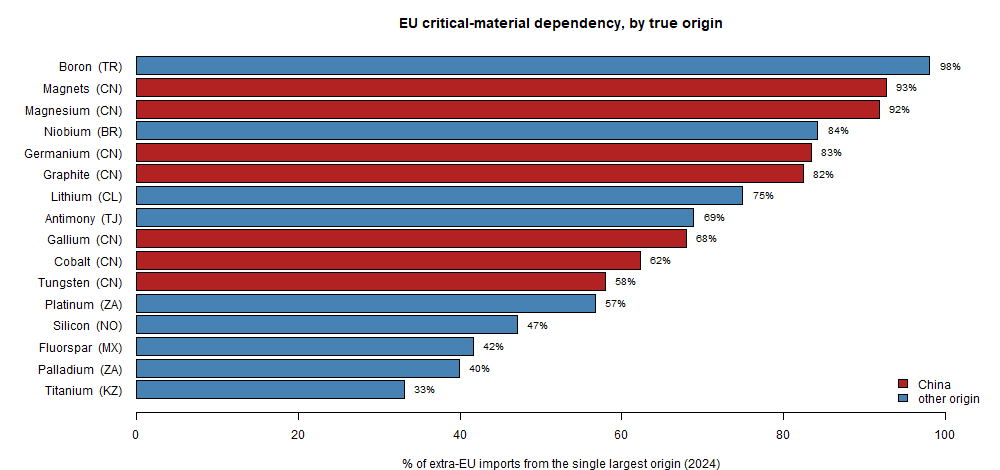
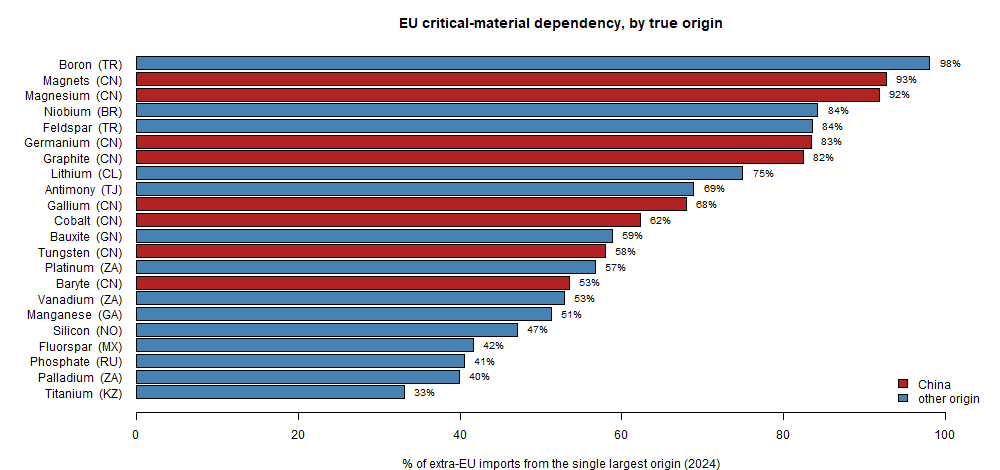
Widen atlas to 22: add feldspar, vanadium, manganese, bauxite, baryte, phosphate
Six more EU critical raw materials pass the screen, adding new origins Gabon (manganese) and Guinea (bauxite), a second Turkey near-monopoly (feldspar 84%), South Africa (vanadium), Russia (phosphate) and a China baryte. China is now the true origin for only 8 of 22 - the single largest source but far from a majority. Dropped after screening: copper (diffuse, not critical-listed) and phosphorus (code stops ~2020). refresh.ps1/build_static.R/README/methodology updated; overview now 22 bars.

Changed region(s): [[0.0, 0.1191, 0.93, 0.8638], [0.93, 0.1191, 0.961, 0.1489]]

diff --git a/index.html b/index.html
@@ -15,9 +15,9 @@
  footer{margin-top:2rem;font-size:.8rem;color:#777;border-top:1px solid #eee;padding-top:.8rem} a{color:firebrick}
 </style></head><body>
 <h1>Who does the EU really depend on?</h1>
-<p class="sub">Extra-EU import dependency across sixteen critical raw materials, corrected for the Rotterdam/Antwerp transit effect. Source: Eurostat Comext (public).</p>
+<p class="sub">Extra-EU import dependency across twenty-two critical raw materials, corrected for the Rotterdam/Antwerp transit effect. Source: Eurostat Comext (public).</p>
 <p class="stamp">Data through 2024 &middot; Eurostat Comext (DS-045409) dataset updated 15 Jun 2026 &middot; page generated 23 Jun 2026</p>
-<p class="intro"><b>Naive</b> rankings by importing member state measure where goods are customs-cleared, not where they come from - distorted by the NL/BE port effect. <b>Corrected</b> rankings treat the EU as one entity and rank by country of origin (for extra-EU flows the Comext partner field is the origin). <b>Across all sixteen materials the constant is that the naive view is wrong</b> - and the dependency map is strikingly diverse. China is the single largest source (the true origin for seven), but the EU also leans on Turkey (boron), Brazil (niobium), Chile (lithium), South Africa (PGMs), Russia, Mexico, Kazakhstan, Tajikistan and Norway - none of them visible in the member-state view. The gap between the two panels is the whole point.</p>
+<p class="intro"><b>Naive</b> rankings by importing member state measure where goods are customs-cleared, not where they come from - distorted by the NL/BE port effect. <b>Corrected</b> rankings treat the EU as one entity and rank by country of origin (for extra-EU flows the Comext partner field is the origin). <b>Across all twenty-two materials the constant is that the naive view is wrong</b> - and the dependency map is strikingly diverse. China is the single largest source, but the true origin of only eight of the twenty-two - far from a majority. The EU also leans on Turkey (boron, feldspar), South Africa (PGMs, vanadium), Gabon and Guinea (manganese, bauxite), Brazil (niobium), Russia (phosphate), Chile, Mexico, Kazakhstan, Tajikistan and Norway - none of them visible in the member-state view. The gap between the two panels is the whole point.</p>
 <h2>The landscape at a glance</h2>
 <img src="out/overview.png" alt="dependency overview - each material by its single largest true origin">
 <p class="note">Each bar is one material&#39;s single largest true origin and its share of 2024 extra-EU imports. Red = China; blue = another country. The naive member-state view hides every one of these.</p>
@@ -293,5 +293,107 @@
 <tr><td>CN</td><td class='n'>62 694 163</td><td class='n'>34 564.8</td><td class='n'>8.0%</td><td class='n'>10.3%</td></tr>
 <tr><td>BA</td><td class='n'>33 498 083</td><td class='n'>14 102.3</td><td class='n'>4.3%</td><td class='n'>4.2%</td></tr>
 <tr><td>AU</td><td class='n'>32 605 066</td><td class='n'>14 455.5</td><td class='n'>4.2%</td><td class='n'>4.3%</td></tr></tbody></table></section>
+<section><h2>Feldspar (CN 2529 10 00)</h2>
+<p class="note">The atlas's second near-monopoly on Turkey: ~84% of EU feldspar (ceramics and glass) is Turkish. The naive view blames Spain and Italy (~45%/34%); the origin is overwhelmingly Turkey.</p>
+<div class="kpis">
+ <div class="kpi"><div class="v">0.1%</div><div class="l">China (value)</div></div>
+ <div class="kpi"><div class="v">0.0%</div><div class="l">China (tonnage)</div></div>
+ <div class="kpi"><div class="v">0.71</div><div class="l">HHI (value)</div></div>
+ <div class="kpi"><div class="v">EUR 291.1M</div><div class="l">Total extra-EU (2024)</div></div>
+</div>
+<img src="out/feldspar_headline.png" alt="naive vs corrected">
+<div class="two"><img src="out/feldspar_trend.png" alt="trend"><img src="out/feldspar_vq.png" alt="value vs tonnage"></div>
+<table><thead><tr><th>Origin</th><th class="n">Value (EUR)</th><th class="n">Tonnes</th><th class="n">Value %</th><th class="n">Tonnage %</th></tr></thead>
+<tbody><tr><td>TR</td><td class='n'>243 331 635</td><td class='n'>4 367 235.9</td><td class='n'>83.6%</td><td class='n'>79.0%</td></tr>
+<tr><td>MA</td><td class='n'>35 647 978</td><td class='n'>948 415.1</td><td class='n'>12.2%</td><td class='n'>17.2%</td></tr>
+<tr><td>NO</td><td class='n'>3 738 199</td><td class='n'>92 650.1</td><td class='n'>1.3%</td><td class='n'>1.7%</td></tr>
+<tr><td>GL</td><td class='n'>2 558 029</td><td class='n'>23 522.1</td><td class='n'>0.9%</td><td class='n'>0.4%</td></tr>
+<tr><td>UA</td><td class='n'>2 435 772</td><td class='n'>76 267.3</td><td class='n'>0.8%</td><td class='n'>1.4%</td></tr>
+<tr><td>BR</td><td class='n'>1 876 575</td><td class='n'>1 618.4</td><td class='n'>0.6%</td><td class='n'>0.0%</td></tr></tbody></table></section>
+<section><h2>Ferro-vanadium (CN 7202 92 00)</h2>
+<p class="note">A steel- and battery-metal dependency on South Africa (~53%) and South Korea (~32%), China a distant third (~15%). The naive view points at the Netherlands (~35%); the origin is South Africa.</p>
+<div class="kpis">
+ <div class="kpi"><div class="v">15.2%</div><div class="l">China (value)</div></div>
+ <div class="kpi"><div class="v">16.4%</div><div class="l">China (tonnage)</div></div>
+ <div class="kpi"><div class="v">0.40</div><div class="l">HHI (value)</div></div>
+ <div class="kpi"><div class="v">EUR 86.4M</div><div class="l">Total extra-EU (2024)</div></div>
+</div>
+<img src="out/vanadium_headline.png" alt="naive vs corrected">
+<div class="two"><img src="out/vanadium_trend.png" alt="trend"><img src="out/vanadium_vq.png" alt="value vs tonnage"></div>
+<table><thead><tr><th>Origin</th><th class="n">Value (EUR)</th><th class="n">Tonnes</th><th class="n">Value %</th><th class="n">Tonnage %</th></tr></thead>
+<tbody><tr><td>ZA</td><td class='n'>45 741 830</td><td class='n'>2 213.6</td><td class='n'>52.9%</td><td class='n'>50.1%</td></tr>
+<tr><td>KR</td><td class='n'>27 505 439</td><td class='n'>1 476.0</td><td class='n'>31.8%</td><td class='n'>33.4%</td></tr>
+<tr><td>CN</td><td class='n'>13 145 570</td><td class='n'>725.1</td><td class='n'>15.2%</td><td class='n'>16.4%</td></tr>
+<tr><td>GB</td><td class='n'>30 703</td><td class='n'>1.0</td><td class='n'>0.0%</td><td class='n'>0.0%</td></tr>
+<tr><td>TR</td><td class='n'>13 236</td><td class='n'>0.5</td><td class='n'>0.0%</td><td class='n'>0.0%</td></tr>
+<tr><td>ID</td><td class='n'>256</td><td class='n'>0.0</td><td class='n'>0.0%</td><td class='n'>0.0%</td></tr></tbody></table></section>
+<section><h2>Manganese ore (CN 2602 00 00)</h2>
+<p class="note">An African dependency the member-state view erases: Gabon ~51% and South Africa ~41%, while the naive view blames France (~42%). Gabon appears nowhere in the importing-country picture.</p>
+<div class="kpis">
+ <div class="kpi"><div class="v">0.0%</div><div class="l">China (value)</div></div>
+ <div class="kpi"><div class="v">0.0%</div><div class="l">China (tonnage)</div></div>
+ <div class="kpi"><div class="v">0.43</div><div class="l">HHI (value)</div></div>
+ <div class="kpi"><div class="v">EUR 130.8M</div><div class="l">Total extra-EU (2024)</div></div>
+</div>
+<img src="out/manganese_headline.png" alt="naive vs corrected">
+<div class="two"><img src="out/manganese_trend.png" alt="trend"><img src="out/manganese_vq.png" alt="value vs tonnage"></div>
+<table><thead><tr><th>Origin</th><th class="n">Value (EUR)</th><th class="n">Tonnes</th><th class="n">Value %</th><th class="n">Tonnage %</th></tr></thead>
+<tbody><tr><td>GA</td><td class='n'>67 102 837</td><td class='n'>299 495.8</td><td class='n'>51.3%</td><td class='n'>52.1%</td></tr>
+<tr><td>ZA</td><td class='n'>53 597 444</td><td class='n'>238 540.4</td><td class='n'>41.0%</td><td class='n'>41.5%</td></tr>
+<tr><td>BR</td><td class='n'>4 240 551</td><td class='n'>9 498.3</td><td class='n'>3.2%</td><td class='n'>1.6%</td></tr>
+<tr><td>MX</td><td class='n'>1 664 000</td><td class='n'>10 988.7</td><td class='n'>1.3%</td><td class='n'>1.9%</td></tr>
+<tr><td>MA</td><td class='n'>1 454 807</td><td class='n'>3 354.8</td><td class='n'>1.1%</td><td class='n'>0.6%</td></tr>
+<tr><td>TR</td><td class='n'>1 085 330</td><td class='n'>2 268.7</td><td class='n'>0.8%</td><td class='n'>0.4%</td></tr></tbody></table></section>
+<section><h2>Aluminium ores / bauxite (CN 2606 00 00)</h2>
+<p class="note">The feedstock for aluminium: Guinea ~59%, then Brazil. The naive view points at Ireland (~35%, the Aughinish alumina refinery) - a processing artefact, not the origin, which is Guinea.</p>
+<div class="kpis">
+ <div class="kpi"><div class="v">5.6%</div><div class="l">China (value)</div></div>
+ <div class="kpi"><div class="v">0.8%</div><div class="l">China (tonnage)</div></div>
+ <div class="kpi"><div class="v">0.39</div><div class="l">HHI (value)</div></div>
+ <div class="kpi"><div class="v">EUR 635.4M</div><div class="l">Total extra-EU (2024)</div></div>
+</div>
+<img src="out/bauxite_headline.png" alt="naive vs corrected">
+<div class="two"><img src="out/bauxite_trend.png" alt="trend"><img src="out/bauxite_vq.png" alt="value vs tonnage"></div>
+<table><thead><tr><th>Origin</th><th class="n">Value (EUR)</th><th class="n">Tonnes</th><th class="n">Value %</th><th class="n">Tonnage %</th></tr></thead>
+<tbody><tr><td>GN</td><td class='n'>373 623 452</td><td class='n'>7 500 700.8</td><td class='n'>58.8%</td><td class='n'>71.7%</td></tr>
+<tr><td>BR</td><td class='n'>115 309 819</td><td class='n'>1 777 711.5</td><td class='n'>18.1%</td><td class='n'>17.0%</td></tr>
+<tr><td>GY</td><td class='n'>44 632 598</td><td class='n'>169 207.3</td><td class='n'>7.0%</td><td class='n'>1.6%</td></tr>
+<tr><td>CN</td><td class='n'>35 375 549</td><td class='n'>82 053.6</td><td class='n'>5.6%</td><td class='n'>0.8%</td></tr>
+<tr><td>TR</td><td class='n'>21 389 284</td><td class='n'>295 911.4</td><td class='n'>3.4%</td><td class='n'>2.8%</td></tr>
+<tr><td>SL</td><td class='n'>19 073 007</td><td class='n'>407 887.5</td><td class='n'>3.0%</td><td class='n'>3.9%</td></tr></tbody></table></section>
+<section><h2>Phosphate rock (CN 2510 10 00)</h2>
+<p class="note">Fertiliser feedstock: Russia ~41% and Morocco ~27%, with the naive view split across the Netherlands and Belgium (~33%/31%, the Antwerp/Rotterdam fertiliser hubs). The Russia share is a live sanctions exposure.</p>
+<div class="kpis">
+ <div class="kpi"><div class="v">0.0%</div><div class="l">China (value)</div></div>
+ <div class="kpi"><div class="v">0.0%</div><div class="l">China (tonnage)</div></div>
+ <div class="kpi"><div class="v">0.26</div><div class="l">HHI (value)</div></div>
+ <div class="kpi"><div class="v">EUR 233.1M</div><div class="l">Total extra-EU (2024)</div></div>
+</div>
+<img src="out/phosphate_headline.png" alt="naive vs corrected">
+<div class="two"><img src="out/phosphate_trend.png" alt="trend"><img src="out/phosphate_vq.png" alt="value vs tonnage"></div>
+<table><thead><tr><th>Origin</th><th class="n">Value (EUR)</th><th class="n">Tonnes</th><th class="n">Value %</th><th class="n">Tonnage %</th></tr></thead>
+<tbody><tr><td>RU</td><td class='n'>94 430 917</td><td class='n'>344 045.2</td><td class='n'>40.5%</td><td class='n'>26.1%</td></tr>
+<tr><td>MA</td><td class='n'>62 430 827</td><td class='n'>365 140.6</td><td class='n'>26.8%</td><td class='n'>27.7%</td></tr>
+<tr><td>LB</td><td class='n'>23 336 701</td><td class='n'>236 820.8</td><td class='n'>10.0%</td><td class='n'>17.9%</td></tr>
+<tr><td>EG</td><td class='n'>21 339 046</td><td class='n'>184 198.1</td><td class='n'>9.2%</td><td class='n'>14.0%</td></tr>
+<tr><td>DZ</td><td class='n'>11 722 966</td><td class='n'>84 995.9</td><td class='n'>5.0%</td><td class='n'>6.4%</td></tr>
+<tr><td>ZA</td><td class='n'>11 070 630</td><td class='n'>41 883.6</td><td class='n'>4.8%</td><td class='n'>3.2%</td></tr></tbody></table></section>
+<section><h2>Baryte (CN 2511 10 00)</h2>
+<p class="note">Drilling-fluid weighting agent: China ~53% and Morocco ~30%. The naive view is scattered across the Netherlands and Italy (~25%/24%); the origin is China.</p>
+<div class="kpis">
+ <div class="kpi"><div class="v">53.5%</div><div class="l">China (value)</div></div>
+ <div class="kpi"><div class="v">46.2%</div><div class="l">China (tonnage)</div></div>
+ <div class="kpi"><div class="v">0.39</div><div class="l">HHI (value)</div></div>
+ <div class="kpi"><div class="v">EUR 75.1M</div><div class="l">Total extra-EU (2024)</div></div>
+</div>
+<img src="out/baryte_headline.png" alt="naive vs corrected">
+<div class="two"><img src="out/baryte_trend.png" alt="trend"><img src="out/baryte_vq.png" alt="value vs tonnage"></div>
+<table><thead><tr><th>Origin</th><th class="n">Value (EUR)</th><th class="n">Tonnes</th><th class="n">Value %</th><th class="n">Tonnage %</th></tr></thead>
+<tbody><tr><td>CN</td><td class='n'>40 151 997</td><td class='n'>169 283.7</td><td class='n'>53.5%</td><td class='n'>46.2%</td></tr>
+<tr><td>MA</td><td class='n'>22 460 972</td><td class='n'>159 454.5</td><td class='n'>29.9%</td><td class='n'>43.5%</td></tr>
+<tr><td>TR</td><td class='n'>7 475 901</td><td class='n'>23 847.2</td><td class='n'>10.0%</td><td class='n'>6.5%</td></tr>
+<tr><td>QW</td><td class='n'>2 178 284</td><td class='n'>2 016.0</td><td class='n'>2.9%</td><td class='n'>0.6%</td></tr>
+<tr><td>MX</td><td class='n'>1 223 275</td><td class='n'>4 935.1</td><td class='n'>1.6%</td><td class='n'>1.4%</td></tr>
+<tr><td>GB</td><td class='n'>892 400</td><td class='n'>2 804.9</td><td class='n'>1.2%</td><td class='n'>0.8%</td></tr></tbody></table></section>
 <footer>Generated by build_static.R from public Eurostat Comext data (DS-045409). Method note: <a href="methodology.html">methodology.html</a>. Independent demo - not affiliated with any institution.</footer>
 </body></html>

diff --git a/methodology.html b/methodology.html
@@ -37,7 +37,7 @@ ports (or refined in hubs such as Umicore in Belgium) but bound elsewhere. This 
 into a single importer and ranks by true origin. This is the answer.</li>
 </ul>
 
-<h2>Evidence — sixteen critical materials (2024)</h2>
+<h2>Evidence — twenty-two critical materials (2024)</h2>
 <table>
 <thead><tr><th>Material (CN8)</th><th>Naive top — member state</th><th>Corrected top — origin</th><th class="n">HHI</th></tr></thead>
 <tbody>
@@ -45,6 +45,7 @@ into a single importer and ranks by true origin. This is the answer.</li>
 <tr><td>Magnesium (8104 11 00)</td><td><b>Netherlands 44%</b>, DE 18%</td><td><b>China 92%</b>, IL 7%</td><td class="n">0.85</td></tr>
 <tr><td>Boron, natural borates (2528 00 00)</td><td>scattered (none &gt; 20%)</td><td><b>Turkey 98%</b>, BO 1%</td><td class="n">0.96</td></tr>
 <tr><td>Ferro-niobium (7202 93 00)</td><td><b>Netherlands 49%</b>, DE 15%</td><td><b>Brazil 84%</b>, CA 16%</td><td class="n">0.73</td></tr>
+<tr><td>Feldspar (2529 10 00)</td><td><b>Spain 45%</b>, IT 34%</td><td><b>Turkey 84%</b>, MA 12%</td><td class="n">0.71</td></tr>
 <tr><td>Germanium (8112 92 95)</td><td><b>Belgium 63%</b>, DE 20%</td><td><b>China 83%</b>, US 12%, KR 4%</td><td class="n">0.71</td></tr>
 <tr><td>Graphite (2504 90 00)</td><td><b>Germany 58%</b>, SE 15%</td><td><b>China 82%</b>, MG 9%, BR 5%</td><td class="n">0.69</td></tr>
 <tr><td>Gallium (8112 92 89)</td><td><b>Germany 78%</b>, NL 15%</td><td><b>China 68%</b>, CA 15%, RU 13%</td><td class="n">0.50</td></tr>
@@ -53,20 +54,25 @@ into a single importer and ranks by true origin. This is the answer.</li>
 <tr><td>Lithium carbonate (2836 91 00)</td><td><b>Netherlands 39%</b>, DE 34%</td><td><b>Chile 75%</b>, US 13%, AR 6%</td><td class="n">0.58</td></tr>
 <tr><td>Antimony (8110 10 00)</td><td>France 37%, Belgium 37%</td><td><b>Tajikistan 69%</b>, VN 10%, CN 6%</td><td class="n">0.49</td></tr>
 <tr><td>Platinum (7110 11 00)</td><td><b>Germany 43%</b>, IT 21%</td><td><b>South Africa 57%</b>, GB 18%, US 12%</td><td class="n">0.37</td></tr>
+<tr><td>Manganese ore (2602 00 00)</td><td><b>France 42%</b>, ES 26%</td><td><b>Gabon 51%</b>, ZA 41%</td><td class="n">0.43</td></tr>
+<tr><td>Ferro-vanadium (7202 92 00)</td><td><b>Netherlands 35%</b>, DE 22%</td><td><b>South Africa 53%</b>, KR 32%, CN 15%</td><td class="n">0.40</td></tr>
+<tr><td>Bauxite (2606 00 00)</td><td><b>Ireland 35%</b>, DE 18%</td><td><b>Guinea 59%</b>, BR 18%</td><td class="n">0.39</td></tr>
+<tr><td>Baryte (2511 10 00)</td><td><b>Netherlands 25%</b>, IT 24%</td><td><b>China 53%</b>, MA 30%, TR 10%</td><td class="n">0.39</td></tr>
+<tr><td>Phosphate rock (2510 10 00)</td><td><b>Netherlands 33%</b>, BE 31%</td><td><b>Russia 41%</b>, MA 27%, LB 10%</td><td class="n">0.26</td></tr>
 <tr><td>Palladium (7110 21 00)</td><td><b>Germany 60%</b>, IT 24%</td><td><b>South Africa 40%</b>, RU 20%, US 17%</td><td class="n">0.25</td></tr>
 <tr><td>Fluorspar &gt;97% CaF2 (2529 22 00)</td><td><b>Italy 51%</b>, DE 27%</td><td><b>Mexico 42%</b>, ZA 36%, VN 10%</td><td class="n">0.32</td></tr>
 <tr><td>Titanium (8108 20 00)</td><td><b>France 40%</b>, IT 22%</td><td><b>Kazakhstan 33%</b>, US 25%, CA 12%</td><td class="n">0.21</td></tr>
 <tr><td>Silicon &lt;99.99% (2804 69 00)</td><td><b>Germany 44%</b>, NL 23%</td><td><b>Norway 47%</b>, BR 15%, IS 9%</td><td class="n">0.26</td></tr>
 </tbody>
 </table>
-<p>Across all sixteen the naive and corrected panels disagree on the single most important fact —
-who the EU depends on — and only the corrected one is true. China is the real origin for seven, but
-it is not a majority: <b>boron</b> traces to <b>Turkey</b>, <b>niobium</b> to <b>Brazil</b>,
-<b>lithium</b> to <b>Chile</b>, the PGMs (<b>platinum</b>, <b>palladium</b>) to <b>South Africa</b>
-and <b>Russia</b>, <b>fluorspar</b> to <b>Mexico</b>, <b>titanium</b> to <b>Kazakhstan</b>,
-<b>antimony</b> to <b>Tajikistan</b> and <b>silicon</b> to <b>Norway</b> — none visible in the
-member-state view. The method surfaces whatever the transit data hides; it is not a China-finding
-machine.</p>
+<p>Across all twenty-two the naive and corrected panels disagree on the single most important fact —
+who the EU depends on — and only the corrected one is true. China is the real origin for eight, but
+far from a majority: <b>boron</b> and <b>feldspar</b> trace to <b>Turkey</b>, <b>niobium</b> to
+<b>Brazil</b>, <b>bauxite</b> to <b>Guinea</b>, <b>manganese</b> to <b>Gabon</b>, the PGMs and
+<b>vanadium</b> largely to <b>South Africa</b>, <b>phosphate</b> to <b>Russia</b>, <b>lithium</b> to
+<b>Chile</b>, <b>fluorspar</b> to <b>Mexico</b>, <b>titanium</b> to <b>Kazakhstan</b>, <b>antimony</b>
+to <b>Tajikistan</b> and <b>silicon</b> to <b>Norway</b> — none visible in the member-state view.
+The method surfaces whatever the transit data hides; it is not a China-finding machine.</p>
 
 <h2>Why it can't be faked from the raw download</h2>
 

diff --git a/README.md b/README.md
@@ -3,10 +3,11 @@
 **Live atlas → https://varcolacus.github.io/eu_trade_dependency/**
 
 Public-data demo: **who does the EU *really* depend on for critical raw materials?**
-An atlas of **sixteen** critical materials — rare-earth magnets, magnesium, germanium,
-graphite, gallium, tungsten, cobalt, niobium, boron, lithium, antimony, platinum, palladium,
-fluorspar, titanium and silicon — corrected for the transit-port distortion. The pipeline is
-parameterised by CN code, so it generalises to any.
+An atlas of **twenty-two** critical materials — rare-earth magnets, magnesium, germanium,
+graphite, gallium, tungsten, cobalt, niobium, boron, feldspar, vanadium, manganese, bauxite,
+baryte, phosphate rock, lithium, antimony, platinum, palladium, fluorspar, titanium and
+silicon — corrected for the transit-port distortion. The pipeline is parameterised by CN
+code, so it generalises to any.
 
 The point is methodological. The obvious way to read the data is the wrong one:
 
@@ -20,13 +21,14 @@ The point is methodological. The obvious way to read the data is the wrong one:
 
 The headline chart puts the two side by side — that visible gap is the whole pitch.
 
-## The atlas: sixteen critical materials (2024, corrected to origin)
+## The atlas: twenty-two critical materials (2024, corrected to origin)
 
 The constant across every material is that **the naive member-state view is wrong** — and
-the dependency map is strikingly diverse. China is the single largest source (the true
-origin for seven of the sixteen), but it is *not* a majority: the EU also leans on Turkey,
-Brazil, Chile, South Africa, Russia, Mexico, Kazakhstan, Tajikistan and Norway — none of
-them visible in the member-state view.
+the dependency map is strikingly diverse. China is the single largest source, but the true
+origin of only **eight of the twenty-two** — far from a majority. The EU also leans on Turkey
+(boron, feldspar), South Africa (PGMs, vanadium), Gabon and Guinea (manganese, bauxite),
+Brazil (niobium), Russia (phosphate), Chile, Mexico, Kazakhstan, Tajikistan and Norway —
+none of them visible in the member-state view.
 
 | Material | Naive top (member state) | Corrected top (origin) | HHI |
 |----------|--------------------------|------------------------|----:|
@@ -34,27 +36,33 @@ them visible in the member-state view.
 | Rare-earth magnets | DE / PL / NL spread | **China 93 %** | 0.86 |
 | Magnesium | **Netherlands 44 %** | **China 92 %** | 0.85 |
 | Niobium (ferro-Nb) | **Netherlands 49 %** | **Brazil 84 %**, CA 16 % | 0.73 |
+| Feldspar | **Spain 45 %**, IT 34 % | **Turkey 84 %**, MA 12 % | 0.71 |
 | Germanium | **Belgium 63 %** | **China 83 %** | 0.71 |
 | Graphite | **Germany 58 %** | **China 82 %** | 0.69 |
 | Lithium carbonate | **Netherlands 39 %**, DE 34 % | **Chile 75 %**, US 13 % | 0.58 |
 | Antimony | France / Belgium 37 % each | **Tajikistan 69 %**, China 6 % | 0.49 |
 | Gallium | **Germany 78 %** | **China 68 %** | 0.50 |
 | Cobalt (oxides) | **Belgium 43 %** | **China 62 %**, GB 28 % | 0.47 |
+| Bauxite | **Ireland 35 %** | **Guinea 59 %**, BR 18 % | 0.39 |
 | Tungsten | **Germany 55 %** | **China 58 %**, GB 22 % | 0.40 |
 | Platinum | **Germany 43 %** | **South Africa 57 %**, GB 18 % | 0.37 |
-| Fluorspar (>97 % CaF2) | **Italy 51 %** | **Mexico 42 %**, ZA 36 % | 0.32 |
+| Baryte | **Netherlands 25 %**, IT 24 % | **China 53 %**, MA 30 % | 0.39 |
+| Vanadium (ferro-V) | **Netherlands 35 %** | **South Africa 53 %**, KR 32 % | 0.40 |
+| Manganese ore | **France 42 %**, ES 26 % | **Gabon 51 %**, ZA 41 % | 0.43 |
 | Silicon | **Germany 44 %** | **Norway 47 %**, BR 15 % | 0.26 |
+| Fluorspar (>97 % CaF2) | **Italy 51 %** | **Mexico 42 %**, ZA 36 % | 0.32 |
+| Phosphate rock | **Netherlands 33 %**, BE 31 % | **Russia 41 %**, MA 27 % | 0.26 |
 | Palladium | **Germany 60 %** | **South Africa 40 %**, RU 20 % | 0.25 |
 | Titanium | **France 40 %** | **Kazakhstan 33 %**, US 25 % | 0.21 |
 
-Highlights: **boron** is the most concentrated dependency of all — a ~98 % Turkey monopoly
-the naive view scatters across member states. **Niobium** is a ~84 % Brazil monopoly behind
-a Rotterdam (NL 49 %) façade. **Germanium** is the cleanest China trap (Belgium = Umicore's
-Antwerp hub). **Gallium** carries the geopolitics — China's origin share runs 96.8 % (2022)
-→ 68 % (2024) as Canada and Russia step in (its July-2023 export controls, visible in the
-data). **Palladium** is the sharpest naive trap (Germany 60 % → South Africa + Russia), and
-**antimony** the biggest surprise (Tajikistan). Most series run 2010–2024 (magnets only from
-2023, when its CN8 code was created).
+Highlights: **boron** (~98 %) and **feldspar** (~84 %) are twin Turkey near-monopolies the
+naive view scatters across member states. **Niobium** is a ~84 % Brazil monopoly behind a
+Rotterdam (NL 49 %) façade; **bauxite** traces to **Guinea** and **manganese** to **Gabon** —
+African origins that vanish in the member-state picture (Ireland, France). **Germanium** is
+the cleanest China trap (Belgium = Umicore's Antwerp hub); **palladium** the sharpest
+(Germany 60 % → South Africa + Russia). **Phosphate** carries a Russia (sanctions) exposure.
+Most series run 2010–2024 (magnets only from 2023, when its CN8 code was created); the
+provisional latest year is excluded.
 
 ## Method notes (the hard-to-fake bits)
 